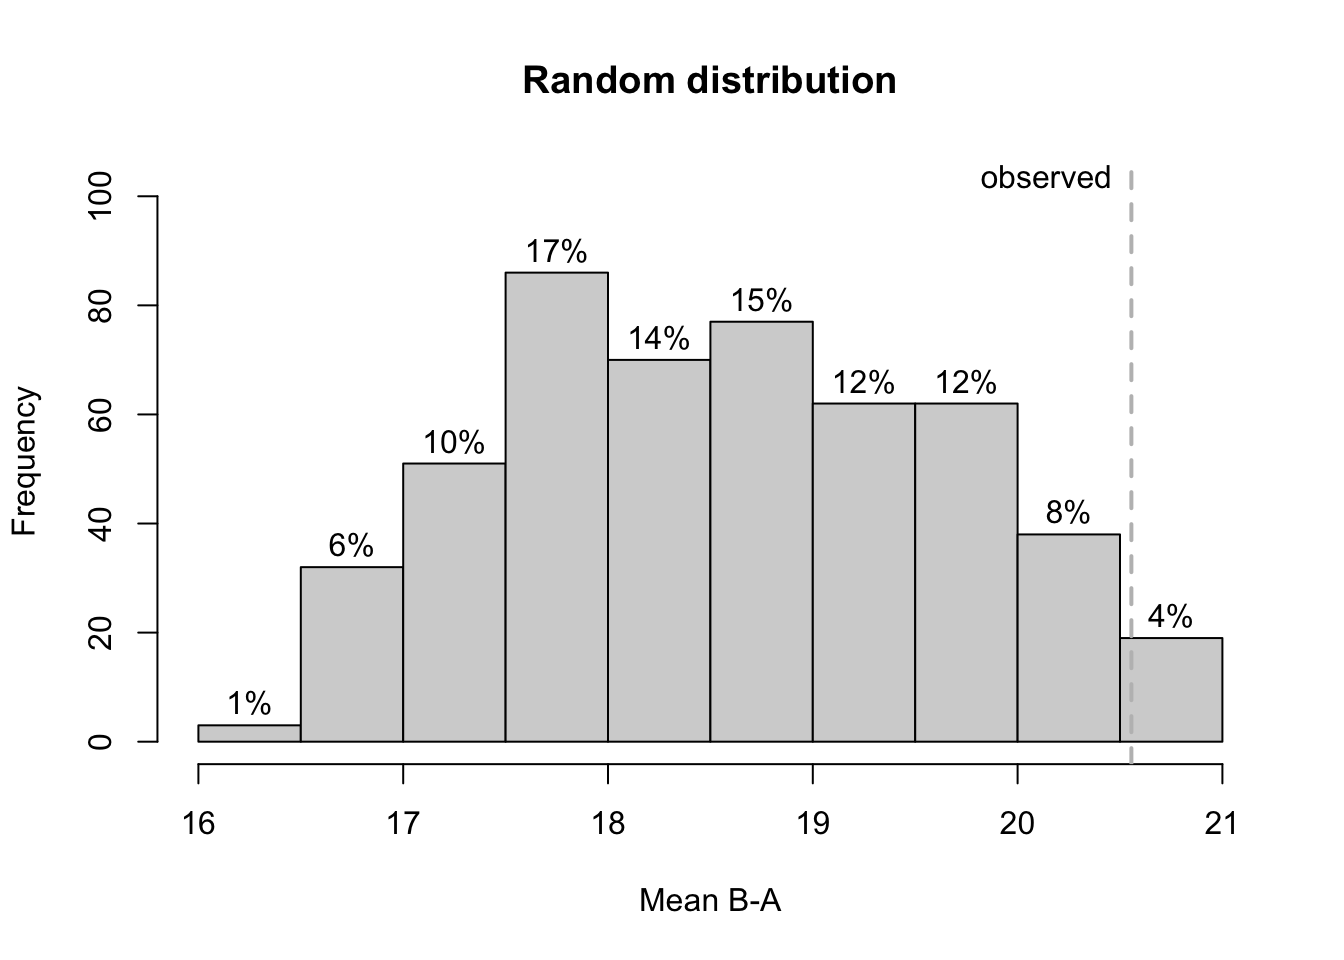
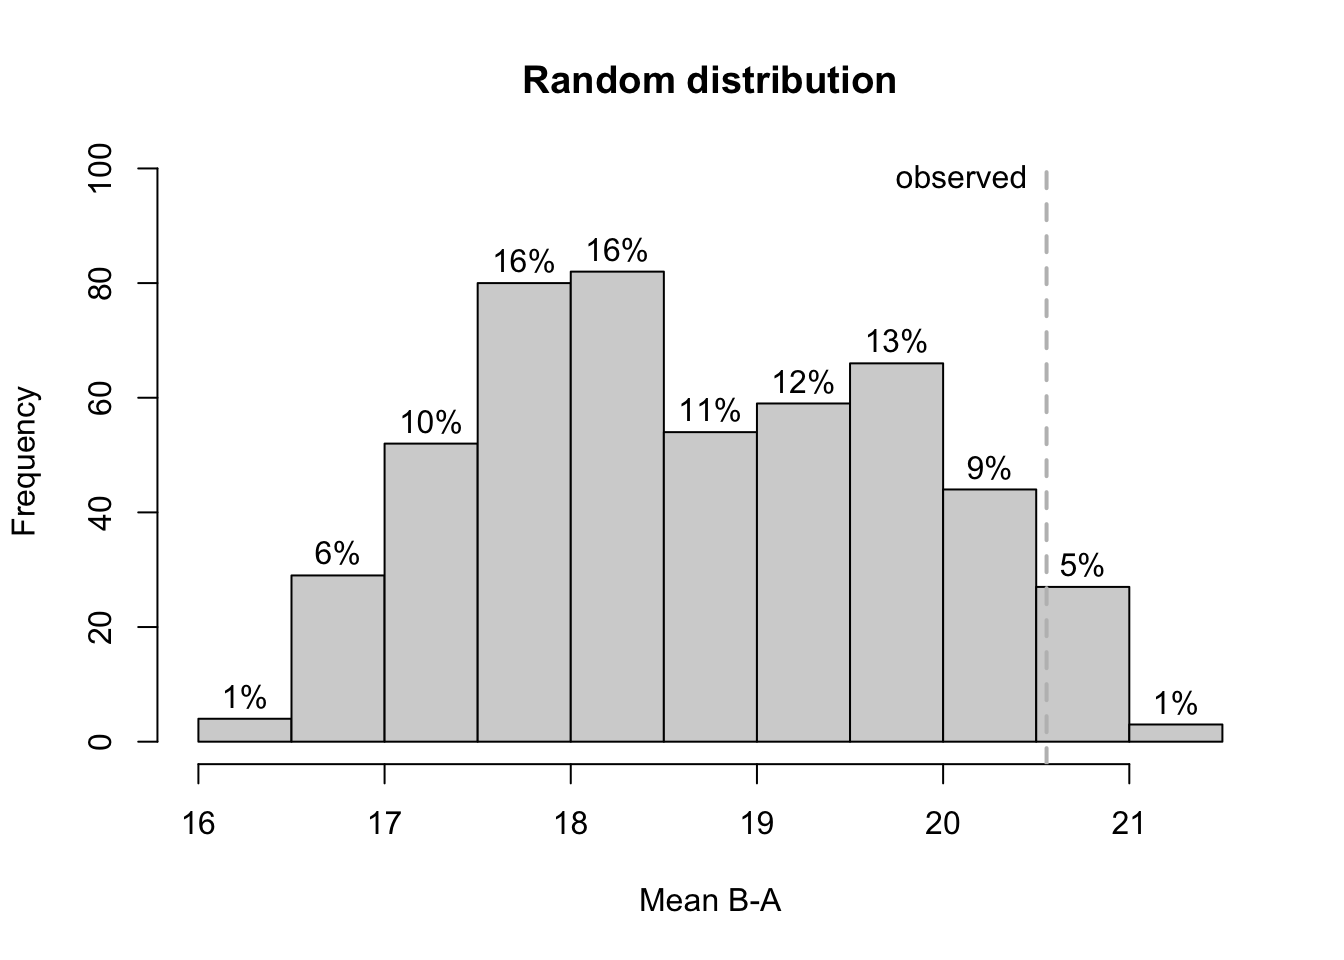
0.58

diff --git a/docs/ch_powertest.html b/docs/ch_powertest.html
@@ -489,9 +489,9 @@ The design function call
 <pre><code>Test-Power in percent:
 
     Method Power Alpha Error Alpha:Beta Correct
- plm_level    65           6      1:5.8      80
-      rand    69          12      1:2.6      78
-      tauU   100          34      1:0.0      83</code></pre>
+ plm_level    75           5      1:5.0      85
+      rand    67           7      1:4.7      80
+      tauU   100          23      1:0.0      88</code></pre>
 </div>
 </div>
 <p>The results show that the plm test and the randomization test have similar power and alpha-error probabilities (the differences here may be due to outliers of the random samples. A more intensive computation with 1000 simulations shows slightly better values for the plm). The tau U test has an unacceptably high alpha-error which is due to the trend we put into the design. <em>Alpha:Beta</em> depicts the relation of the Alpha and Beta error (power = 1 - Beta). <em>Correct</em> is the overall proportion of correct categorizations and <em>p</em> is the results of a binomial-test of <em>Correct</em> against 50%.</p>
@@ -588,14 +588,14 @@ The design function call
 <div class="cell-output cell-output-stdout">
 <pre><code>Test-Power in percent:
 
-    Method Power 2.5% 97.5% Alpha Error 2.5% 97.5% Alpha:Beta Correct 2.5%
- plm_level    76   66    84           6    2    13      1:4.0      85   79
-      rand    64   54    73           5    2    11      1:7.2      80   73
-      tauU   100   96   100          19   12    28      1:0.0      90   86
+    Method Power 2.5% 97.5% Alpha Error  2.5% 97.5% Alpha:Beta Correct 2.5%
+ plm_level    75   65    83           1  0.03     5     1:25.0      87   82
+      rand    76   66    84           4  1.10    10      1:6.0      86   80
+      tauU   100   96   100          26 17.74    36      1:0.0      87   82
  97.5%
+    91
     90
-    85
-    94</code></pre>
+    91</code></pre>
 </div>
 </div>
 <p>You can also test the power, alpha error, and correct estimates against predefined values. In order to do that, set <code>binom_test = TRUE</code>. The power will be tested against being greater or equal to 80%, the alpha error against being less or equal 5%, and the correct proportion against being greater equal 87.5%.</p>
@@ -605,13 +605,13 @@ The design function call
 <pre><code>Test-Power in percent:
 
     Method Power Alpha Error Alpha:Beta Correct p Power&gt;=80 p Alpha Error&lt;=5
- plm_level    79           6      1:3.5      86           1                1
-      rand    81           3      1:6.3      89           0                0
-      tauU   100          17      1:0.0      92           0                1
+ plm_level    68          13      1:2.5      78           1                1
+      rand    61          11      1:3.5      75           1                1
+      tauU   100          24      1:0.0      88           0                1
  p Correct&gt;=87.5
-            0.71
-            0.30
-            0.05</code></pre>
+             1.0
+             1.0
+             0.5</code></pre>
 </div>
 </div>
 <p>If you want to define individual values for the three tests, set the <code>binom_test_power</code>. <code>binom_test_alpha</code>, and/or, the <code>binom_test_correct</code> arguments.</p>
@@ -670,9 +670,9 @@ The design function call
 <pre><code>Test-Power in percent:
 
     Method Power Alpha Error Alpha:Beta Correct
- plm_level    65           6      1:5.8      80
-      rand    69          12      1:2.6      78
-      tauU   100          34      1:0.0      83
+ plm_level    75           5      1:5.0      85
+      rand    67           7      1:4.7      80
+      tauU   100          23      1:0.0      88
 
 Computation duration is 0.9 seconds.</code></pre>
 </div>
@@ -686,13 +686,13 @@ Computation duration is 0.9 seconds.</code></pre>
 <span id="cb14-5"><a href="#cb14-5" aria-hidden="true" tabindex="-1"></a><span class="co"># Elapsed time in seconds for each procedure</span></span>
 <span id="cb14-6"><a href="#cb14-6" aria-hidden="true" tabindex="-1"></a><span class="fu">attr</span>(res1, <span class="st">"computation_duration"</span>)[<span class="dv">3</span>]</span>
 <span id="cb14-7"><a href="#cb14-7" aria-hidden="true" tabindex="-1"></a><span class="do">## elapsed </span></span>
-<span id="cb14-8"><a href="#cb14-8" aria-hidden="true" tabindex="-1"></a><span class="do">##   0.072</span></span>
+<span id="cb14-8"><a href="#cb14-8" aria-hidden="true" tabindex="-1"></a><span class="do">##   0.073</span></span>
 <span id="cb14-9"><a href="#cb14-9" aria-hidden="true" tabindex="-1"></a><span class="fu">attr</span>(res2, <span class="st">"computation_duration"</span>)[<span class="dv">3</span>]</span>
 <span id="cb14-10"><a href="#cb14-10" aria-hidden="true" tabindex="-1"></a><span class="do">## elapsed </span></span>
-<span id="cb14-11"><a href="#cb14-11" aria-hidden="true" tabindex="-1"></a><span class="do">##   0.228</span></span>
+<span id="cb14-11"><a href="#cb14-11" aria-hidden="true" tabindex="-1"></a><span class="do">##   0.234</span></span>
 <span id="cb14-12"><a href="#cb14-12" aria-hidden="true" tabindex="-1"></a><span class="fu">attr</span>(res3, <span class="st">"computation_duration"</span>)[<span class="dv">3</span>]</span>
 <span id="cb14-13"><a href="#cb14-13" aria-hidden="true" tabindex="-1"></a><span class="do">## elapsed </span></span>
-<span id="cb14-14"><a href="#cb14-14" aria-hidden="true" tabindex="-1"></a><span class="do">##   0.474</span></span></code><button title="Copy to Clipboard" class="code-copy-button"><i class="bi"></i></button></pre></div>
+<span id="cb14-14"><a href="#cb14-14" aria-hidden="true" tabindex="-1"></a><span class="do">##   0.482</span></span></code><button title="Copy to Clipboard" class="code-copy-button"><i class="bi"></i></button></pre></div>
 </div>
 <p>… and what about our new fast-glm function?</p>
 <div class="cell">
@@ -711,12 +711,12 @@ Computation duration is 0.9 seconds.</code></pre>
 <span id="cb15-13"><a href="#cb15-13" aria-hidden="true" tabindex="-1"></a><span class="fu">attr</span>(res1, <span class="st">"computation_duration"</span>)[<span class="dv">3</span>]</span></code><button title="Copy to Clipboard" class="code-copy-button"><i class="bi"></i></button></pre></div>
 <div class="cell-output cell-output-stdout">
 <pre><code>elapsed 
-  0.218 </code></pre>
+  0.122 </code></pre>
 </div>
 <div class="sourceCode cell-code" id="cb17"><pre class="sourceCode r code-with-copy"><code class="sourceCode r"><span id="cb17-1"><a href="#cb17-1" aria-hidden="true" tabindex="-1"></a><span class="fu">attr</span>(res2, <span class="st">"computation_duration"</span>)[<span class="dv">3</span>]</span></code><button title="Copy to Clipboard" class="code-copy-button"><i class="bi"></i></button></pre></div>
 <div class="cell-output cell-output-stdout">
 <pre><code>elapsed 
-  0.137 </code></pre>
+  0.143 </code></pre>
 </div>
 </div>
 <p>… it is much faster!</p>

diff --git a/docs/index.html b/docs/index.html
@@ -342,7 +342,7 @@ div.csl-indent {
 
 </header>
 
-<p><strong><em>Version 23.06 (build 8)</em></strong></p>
+<p><strong><em>Version 23.06 (build 13)</em></strong></p>
 <section id="preface" class="level1 unnumbered">
 <h1 class="unnumbered">Preface</h1>
 <p>Hello everyone!</p>
@@ -350,10 +350,10 @@ div.csl-indent {
 If you have any suggestions on how to improve the book, or want to report bugs, comments, feedback, etc., go to the gitHub repository of this book and contribute here <a href="https://github.com/jazznbass/scan-Book/discussions" class="uri">https://github.com/jazznbass/scan-Book/discussions</a>.</p>
 <p>Thank you very much!</p>
 <p>Jürgen</p>
-<p>24 May 2023</p>
+<p>25 May 2023</p>
 <section id="general-references" class="level2 unnumbered">
 <h2 class="unnumbered anchored" data-anchor-id="general-references">General references</h2>
-<p>This book has been created using <a href="https://quarto.org/"><code>Quarto</code></a> within the RStudio <span class="citation" data-cites="RStudio">(<a href="references.html#ref-RStudio" role="doc-biblioref">RStudio Team, 2018</a>)</span> environment. The analyses have been conducted with the <strong>R</strong> package <code>scan</code> at version 0.58 <span class="citation" data-cites="R-scan">(<a href="references.html#ref-R-scan" role="doc-biblioref">Wilbert &amp; Lueke, 2023</a>)</span> and <code>scplot</code> at version 0.3.1 <span class="citation" data-cites="R-scplot">(<a href="references.html#ref-R-scplot" role="doc-biblioref">Wilbert, 2023</a>)</span>. R version 4.3.0 (2023-04-21) was used <span class="citation" data-cites="R-base">(<a href="references.html#ref-R-base" role="doc-biblioref">R Core Team, 2023</a>)</span>.</p>
+<p>This book has been created using <a href="https://quarto.org/"><code>Quarto</code></a> within the RStudio <span class="citation" data-cites="RStudio">(<a href="references.html#ref-RStudio" role="doc-biblioref">RStudio Team, 2018</a>)</span> environment. The analyses have been conducted with the <strong>R</strong> package <code>scan</code> at version 0.58.1 <span class="citation" data-cites="R-scan">(<a href="references.html#ref-R-scan" role="doc-biblioref">Wilbert &amp; Lueke, 2023</a>)</span> and <code>scplot</code> at version 0.3.1 <span class="citation" data-cites="R-scplot">(<a href="references.html#ref-R-scplot" role="doc-biblioref">Wilbert, 2023</a>)</span>. R version 4.3.0 (2023-04-21) was used <span class="citation" data-cites="R-base">(<a href="references.html#ref-R-base" role="doc-biblioref">R Core Team, 2023</a>)</span>.</p>
 <p>Note: The cover has been designed by Tony Wilbert and Henry Ritter.<br>
 Thanx for that!</p>
 
@@ -366,7 +366,7 @@ R Core Team. (2023). <em>R: A language and environment for statistical computing
 RStudio Team. (2018). <em>RStudio: Integrated development environment for r</em>. Retrieved from <a href="http://www.rstudio.com/">http://www.rstudio.com/</a>
 </div>
 <div id="ref-R-scplot" class="csl-entry" role="listitem">
-Wilbert, J. (2023). <em>Scplot: Plot function for single-case data frames</em>.
+Wilbert, J. (2023). <em>Scplot: Plot function for single-case data frames</em>. Retrieved from <a href="https://CRAN.R-project.org/package=scplot">https://CRAN.R-project.org/package=scplot</a>
 </div>
 <div id="ref-R-scan" class="csl-entry" role="listitem">
 Wilbert, J., &amp; Lueke, T. (2023). <em>Scan: Single-case data analyses for single and multiple baseline designs</em>.

diff --git a/docs/ch_piecewise_regression.html b/docs/ch_piecewise_regression.html
@@ -414,16 +414,16 @@ The regression model
 <div class="callout-body-container callout-body">
 <p>The default model applied in the plm function has the formula</p>
 <p><span class="math display">\[
-y_i = \beta_1 + \beta_2 (time_i-time_1) + \beta_3 phase_i + \beta_4 (time_i-time_{n_A+1})*phase_i
+y_i = \beta_0 + \beta_1 (time_i-time_1) + \beta_2 phase_i + \beta_3 (time_i-time_{n_A+1})*phase_i
 \]</span></p>
 <p>Where:</p>
 <p><span class="math inline">\(i\)</span> := the session<a href="#fn1" class="footnote-ref" id="fnref1" role="doc-noteref"><sup>1</sup></a> number.</p>
-<p><span class="math inline">\(\beta_1\)</span> := the intercept.</p>
-<p><span class="math inline">\(\beta_2 time\)</span> := the continuous effect of the measurement time (the trend effect).</p>
-<p><span class="math inline">\(\beta_3 phase\)</span> := the discrete effect of the phase switch (the level effect).</p>
-<p><span class="math inline">\(\beta_4 (time-n_{A+1})*phase\)</span> := the continuous effect of the phase switch (the slope effect).</p>
+<p><span class="math inline">\(\beta_0\)</span> := the intercept.</p>
+<p><span class="math inline">\(\beta_1 time\)</span> := the continuous effect of the measurement time (the trend effect).</p>
+<p><span class="math inline">\(\beta_2 phase\)</span> := the discrete effect of the phase switch (the level effect).</p>
+<p><span class="math inline">\(\beta_3 (time-n_{A+1})*phase\)</span> := the continuous effect of the phase switch (the slope effect).</p>
 <p><span class="math inline">\(n_{A+1}\)</span> := the first session of phase B.</p>
-<p>For <span class="math inline">\(\beta_2\)</span> and <span class="math inline">\(\beta_4\)</span>, the time variables are shifted to start with a 0 at the first session of the respective phase.</p>
+<p>For <span class="math inline">\(\beta_1\)</span> and <span class="math inline">\(\beta_3\)</span>, the time variables are shifted to start with a 0 at the first session of the respective phase.</p>
 </div>
 </div>
 <p><em>scan</em> provides an implementation based on this piecewise-regression approach. Though the original model is extended by several factors:</p>

diff --git a/docs/ch_scan_package.html b/docs/ch_scan_package.html
@@ -331,12 +331,12 @@ ul.task-list li input[type="checkbox"] {
 <h2 data-number="2.1" class="anchored" data-anchor-id="installing-the-scan-package"><span class="header-section-number">2.1</span> Installing the <em>scan</em> package</h2>
 <p>You can use the <code>install.packages</code> function to install <em>scan</em>.</p>
 <p><code>install.packages("scan")</code> will install the stable version.</p>
-<p>The current stable release is version <code>0.57</code>. Please refer to the <em>Software Reference</em> section to see which version of <em>scan</em> was used to create this book, and make sure you have this or a newer version installed.</p>
+<p>The current stable release is version <code>0.58</code>. Please refer to the <em>Software Reference</em> section to see which version of <em>scan</em> was used to create this book, and make sure you have this or a newer version installed.</p>
 <p>R contains many packages, and it would slow things down considerably if all packages were loaded into memory at the beginning of each R session. Therefore, after installing <em>scan</em>, you need to enable it at the beginning of each session in which you use R. Normally, a session starts when you start the R program and ends when you quit it.</p>
 <p>To activate a package, you need the <code>library</code> function. In this case, <code>library(scan)</code>. You should get something like</p>
 <div class="cell">
 <div class="cell-output cell-output-stdout">
-<pre><code>[34mscan 0.58 (2023-05-24)
+<pre><code>[34mscan 0.58.1 (2023-05-25)
 [31mFor information on citing scan, type citation("scan").</code></pre>
 </div>
 </div>

diff --git a/docs/ch_randomization_test.html b/docs/ch_randomization_test.html
@@ -442,18 +442,18 @@ Observed statistic =  20.55556
 
 Distribution based on a random sample of all 1331 possible combinations.
 n   =  500 
-M   =  18.57402 
-SD  =  1.096387 
+M   =  18.64637 
+SD  =  1.150928 
 Min =  16.06667 
-Max =  20.98611 
+Max =  21.35421 
 
 Probability of observed statistic based on distribution:
-p   =  0.028 
+p   =  0.042 
 
-Shapiro-Wilk Normality Test: W = 0.978; p = 0.000  (Hypothesis of normality rejected)
+Shapiro-Wilk Normality Test: W = 0.977; p = 0.000  (Hypothesis of normality rejected)
 
 Probabilty of observed statistic based on the assumption of normality:
-z = 1.8073, p = 0.0354 (single sided)</code></pre>
+z = 1.6588, p = 0.0486 (single sided)</code></pre>
 </div>
 </div>
 

diff --git a/docs/references.html b/docs/references.html
@@ -428,7 +428,7 @@ Baseline <span>Corrected Tau</span>. <em>Behavior Modification</em>,
 </div>
 <div id="ref-R-scplot" class="csl-entry" role="listitem">
 Wilbert, Juergen. (2023). <em>Scplot: Plot function for single-case data
-frames</em>.
+frames</em>. Retrieved from <a href="https://CRAN.R-project.org/package=scplot">https://CRAN.R-project.org/package=scplot</a>
 </div>
 <div id="ref-R-scan" class="csl-entry" role="listitem">
 Wilbert, Juergen, &amp; Lueke, T. (2023). <em>Scan: Single-case data
